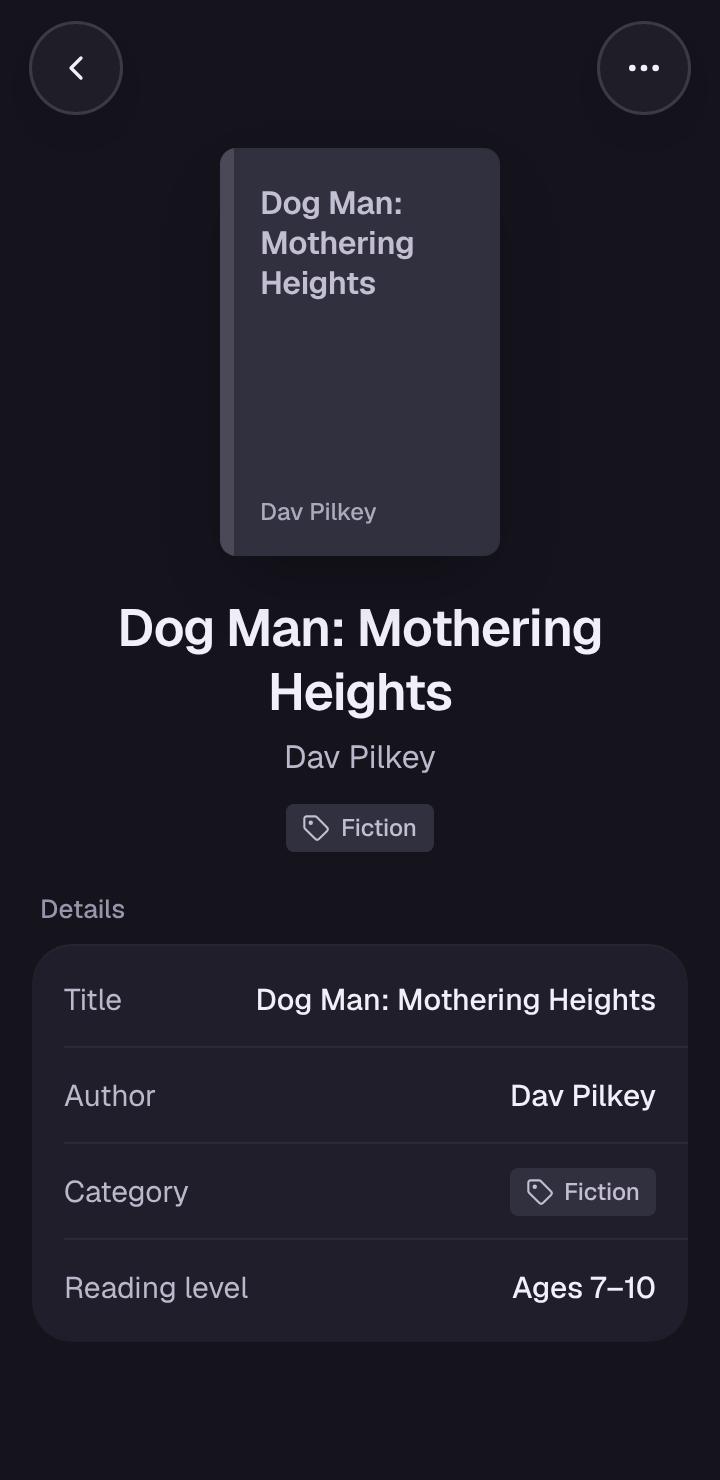
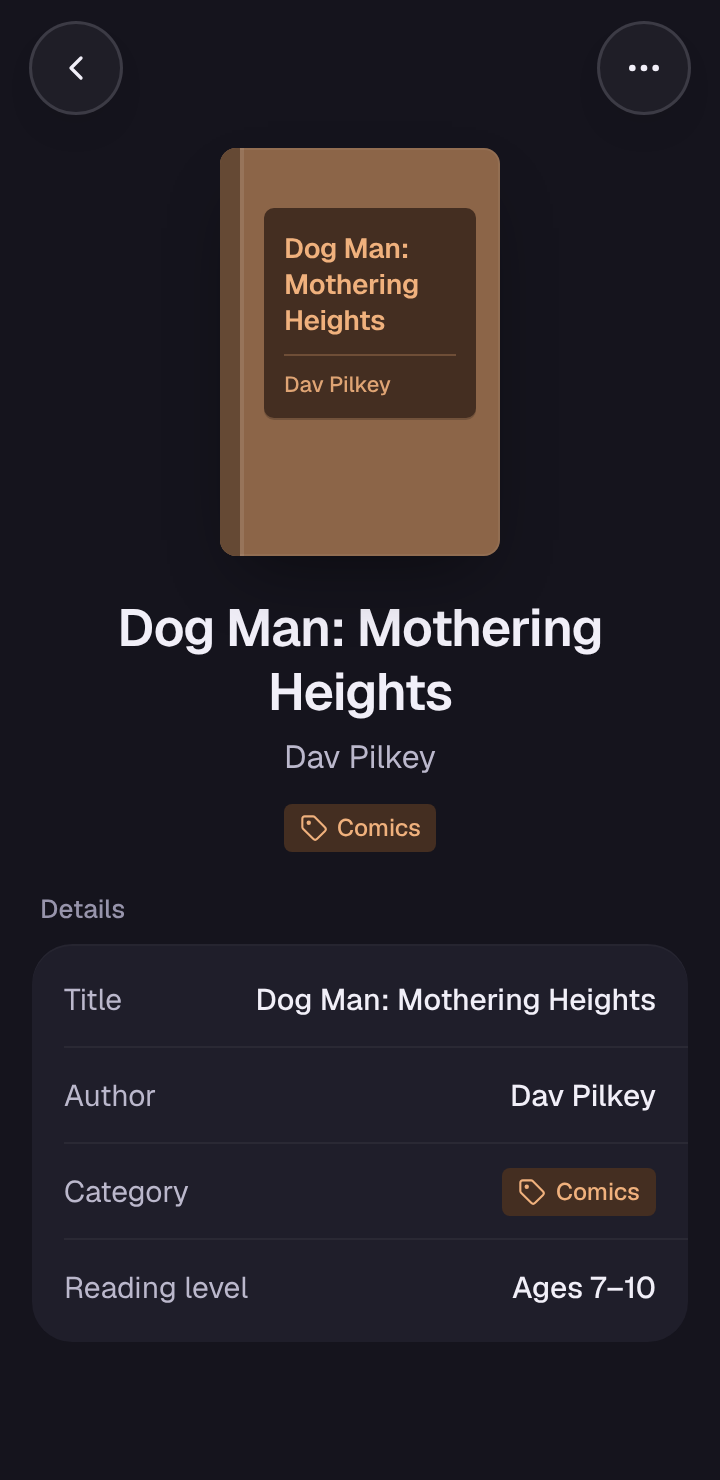
docs(goho): use cloth and label generated book cover
- Draw books without a cover image as a category colour cloth with a darker spine and a title label in the tag container colour
- Keep all cover text in the tag content-on-container pair for contrast
- Regenerate the no-cover book details mockups

Changed region(s): [[0.3056, 0.0932, 0.7028, 0.373], [0.7028, 0.777, 0.9167, 0.8392], [0.3972, 0.5284, 0.6111, 0.5905]]

diff --git a/.agents/skills/goho-design/SKILL.md b/.agents/skills/goho-design/SKILL.md
@@ -37,7 +37,7 @@ Approved design, October 22, 2026. The Add button, the title menu and switching 
 
 The app reopens on the last-used section. Sections keep their own filter page and scroll positions while you switch. Back on a section root does not switch sections. Details screens push over their section as today; the section title is not shown there. Full layout, motion and accessibility specs: [screens.md section 7](references/screens.md#7-section-navigation-and-add-button); components in [components.md](references/components.md#sectiontitle-and-sectionmenu); tokens in [tokens.md](references/tokens.md#navigation-and-add-menu). Mockups: `nav-*.png` in the [mockup guide](assets/mockups/README.md#section-navigation-and-add-button-october-22-2026-approved-design).
 
-**Books** list is implemented as a display-only list; see [screens.md section 8](references/screens.md#8-books-list). Seeded and saved books show their cover or a neutral placeholder, one-line title, author, optional reading level and server category tag; unfinished and failed scans appear first, failed ones under Needs attention. Empty Books is text-only. The complete Books design follows the Receipts patterns exactly: All / Needs attention filters, a scan appearing inline at the top as “Reading cover…”, failed scans kept as Not processed and listed under Needs attention, read-only details, deletion through the shared options sheet, and the same scan preview (“New book”, Upload cover) targeting `POST /book-uploads`. The latest dev contract now includes the Books and book-upload APIs. Verify their current behaviour when implementing the Books screens; API availability alone does not add a Books UI. Books has no search, no manual entry and no editing. Book details are approved as a cover-first page, with a generated cover (category colours, title and author) when a book has no cover image: [screens.md section 9](references/screens.md#9-book-details-cover-first). Other unbuilt Books screens (scan preview) have no separate spec yet; derive them from the Receipts specs and the server’s Books contract, and ask before inventing anything else.
+**Books** list is implemented as a display-only list; see [screens.md section 8](references/screens.md#8-books-list). Seeded and saved books show their cover or a neutral placeholder, one-line title, author, optional reading level and server category tag; unfinished and failed scans appear first, failed ones under Needs attention. Empty Books is text-only. The complete Books design follows the Receipts patterns exactly: All / Needs attention filters, a scan appearing inline at the top as “Reading cover…”, failed scans kept as Not processed and listed under Needs attention, read-only details, deletion through the shared options sheet, and the same scan preview (“New book”, Upload cover) targeting `POST /book-uploads`. The latest dev contract now includes the Books and book-upload APIs. Verify their current behaviour when implementing the Books screens; API availability alone does not add a Books UI. Books has no search, no manual entry and no editing. Book details are approved as a cover-first page, with a generated “cloth and label” cover (the category colour as the cloth, a darker spine, and a title label) when a book has no cover image: [screens.md section 9](references/screens.md#9-book-details-cover-first). Other unbuilt Books screens (scan preview) have no separate spec yet; derive them from the Receipts specs and the server’s Books contract, and ask before inventing anything else.
 
 ## Geist typography
 

diff --git a/.agents/skills/goho-design/references/screens.md b/.agents/skills/goho-design/references/screens.md
@@ -305,7 +305,7 @@ Opened by tapping a saved book row. Rows still reading a cover are not tappable;
 
 **Cover** (books with `hasImage` only; 12 below the bar, centered): the cover image at `bookCover` 140×204dp, `ContentScale.Crop` inside shape `cover` (8dp), a 1dp `outline` ring and a soft drop shadow (0/16/34dp, black at 45% dark / `shadow` at 30% light, −12dp spread). It sits directly on the background, not in a photo frame. Tap opens the existing photo viewer with the uncropped image; accessibility action “View book cover”, viewer description “Book cover, {title}”. While the image is loading, show a `cover`-shaped skeleton mask of the same size that is not tappable.
 
-**Generated cover** (approved October 22, 2026; `hasImage` false, or the image fails to load): keep the same 140×204dp `cover` slot so every book page has the same shape. Fill it with the book category’s `TagColor` container; draw a 7dp spine on the leading edge in the category content colour at 18% alpha and a 1dp ring in `outline`. Set the title in `bookCoverTitle` (16/20sp SemiBold, −0.01em) in the content colour, top-aligned at 18dp top, 20dp start and 14dp end padding, up to 5 lines with an ellipsis. Set the author in 12/16sp Medium, content colour at 85%, bottom-aligned 14dp from the bottom. Same shadow as a real cover, at half strength in light mode. It is decorative: not tappable, no viewer, and hidden from accessibility (the hero already announces the title and author). Unknown category colours use Grey. Book list thumbnails without a cover keep the neutral book placeholder.
+**Generated cover** (approved October 22, 2026, “cloth and label”; `hasImage` false, or the image fails to load): keep the same 140×204dp `cover` slot so every book page has the same shape, and draw a clothbound book in the category colour. Cloth: fill the slot with the category `TagColor` content colour in light mode, and with the dark container mixed 42% toward the dark content colour in dark mode. Spine: a 10dp band on the leading edge in the cloth colour mixed 28% toward black, followed by a 1.5dp highlight in white at 22% (light) / 10% (dark). Label: a 5dp-rounded plate in the category `TagColor` container, inset 22dp start, 12dp end and 30dp from the top, with 11dp top, 10dp side and 10dp bottom padding and a 1dp bottom edge in black at 6% (light) / 18% (dark). On the label, the title in `bookCoverTitle` (14/18sp SemiBold, −0.01em, up to 4 lines with an ellipsis), a 1dp rule in the content colour at 25% with 8dp above and 7dp below, then the author in 11/14sp Medium at 90%, one line with an ellipsis. All text uses the content colour on the container, so it keeps the tag pair’s contrast (5.4:1 or better) in every colour and theme. The slot keeps a 1dp inset ring (black 8% light, white 6% dark) and the same shadow as a real cover. It is decorative: not tappable, no viewer, and hidden from accessibility (the hero already announces the title and author). Unknown category colours use Grey (Fiction and Nonfiction are Grey today). Book list thumbnails without a cover keep the neutral book placeholder.
 
 **Hero** (20 below the cover or generated cover; 24dp side padding, centered text):
 

diff --git a/.agents/skills/goho-design/references/tokens.md b/.agents/skills/goho-design/references/tokens.md
@@ -217,4 +217,4 @@ Motion: native `SECTION_MENU_ENTER_MILLIS` = 160 / `SECTION_MENU_EXIT_MILLIS` = 
 
 ## Book details
 
-Approved October 22, 2026 (`screens.md` section 8). `bookCover` = 140×204dp (about 2:3), shape `cover` 8dp, 1dp `outline` ring, shadow 0/16/34dp with −12dp spread (black 45% in dark, `shadow` 30% in light). `bookTitle` = 26/32sp, weight 600, −0.02em, centered, unlimited lines. Author uses 16/22sp Regular in `textSecondary`. Spacing: cover 12 below the top bar, hero 20 below the cover, author 6 below the title, tag 12 below the author, Details label 24 below the hero. Book list thumbnails stay 40×56dp with the `thumb` shape. Generated cover (no image): category `TagColor` container fill, 7dp spine in the content colour at 18%, `bookCoverTitle` = 16/20sp SemiBold −0.01em (max 5 lines), author 12/16sp Medium at 85%, padding 18 top / 20 start / 14 end / 14 bottom.
+Approved October 22, 2026 (`screens.md` section 8). `bookCover` = 140×204dp (about 2:3), shape `cover` 8dp, 1dp `outline` ring, shadow 0/16/34dp with −12dp spread (black 45% in dark, `shadow` 30% in light). `bookTitle` = 26/32sp, weight 600, −0.02em, centered, unlimited lines. Author uses 16/22sp Regular in `textSecondary`. Spacing: cover 12 below the top bar, hero 20 below the cover, author 6 below the title, tag 12 below the author, Details label 24 below the hero. Book list thumbnails stay 40×56dp with the `thumb` shape. Generated cover (no image, “cloth and label”): cloth = category `TagColor` content (light) or dark container mixed 42% toward dark content (dark); 10dp spine in the cloth mixed 28% toward black plus a 1.5dp white highlight (22% light / 10% dark); label = `TagColor` container, 5dp corners, inset 22 start / 12 end / 30 top, padding 11 top / 10 sides / 10 bottom; `bookCoverTitle` = 14/18sp SemiBold −0.01em (max 4 lines), 1dp rule at 25% (8 above, 7 below), author 11/14sp Medium at 90% (1 line). Label text is the content colour on the container.

diff --git a/.agents/skills/goho-design/assets/mockups/README.md b/.agents/skills/goho-design/assets/mockups/README.md
@@ -9,7 +9,7 @@ The current family icon sources and Android resources are documented in the [lau
 Design renders from the Goho brand canvas (“Book details”) at 360dp width and 2× (720×1480px). The [section 9 spec](../../references/screens.md#9-book-details-cover-first) wins where they differ. Books and covers are illustrative sample data.
 
 - `book-details-light.png`, `book-details-dark.png`: cover first, centered title, author and category tag, then the Details card.
-- `book-details-no-cover-light.png`, `book-details-no-cover-dark.png`: the generated cover for books without a cover image (category tag colours, title, author, spine); the light one also has no reading level and a long wrapping title.
+- `book-details-no-cover-light.png`, `book-details-no-cover-dark.png`: the generated “cloth and label” cover for books without a cover image (category colour cloth, darker spine, title label in the tag container colour); the light one also has no reading level and a long title that the label truncates while the hero wraps it.
 - `book-details-loading-light.png`, `book-details-cover-loading-dark.png`: initial loading, and a loaded book whose cover is still loading.
 - `book-details-options-light.png`, `book-details-confirm-dark.png`, `book-details-delete-error-light.png`: the shared options sheet with Delete book, its confirmation and its failure state.
 
